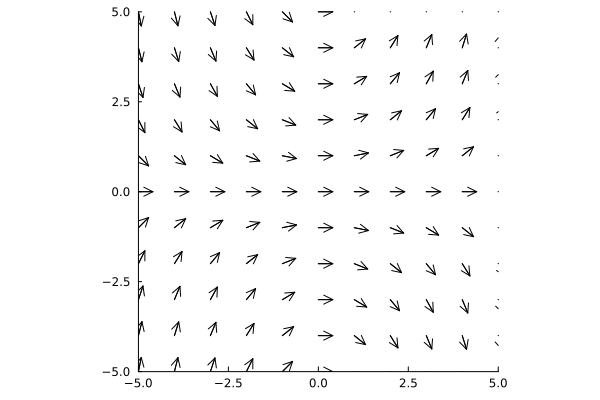
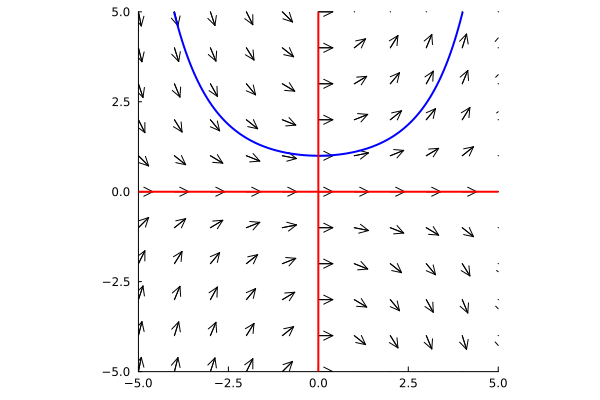
add explicacion de quiver

diff --git a/reportes/cap2_001.md b/reportes/cap2_001.md
@@ -106,27 +106,46 @@ Es posible que una ecuación diferencial no tenga
 soluciones y que una ecuación diferencial tenga una solución que con los
 métodos existentes actuales no se puede determinar. [@zill]
 
-En ocasiones es conveniente observar el campo direccional para generar una idea de la
-solucion. Por ejemplo, el siguiente codigo en *julia* es para visualizar el campo direccional para la ecuación 
-diferencial $dy/dx = 0.2xy$
+Por ejemplo, antes de buscar solución, considere la ecuacion diferencial: $f(x,y) = dy/dx = 0.2xy$.
+Vamos a dibujar su **campo direccional** 
+a fin de lograr una idea de como seria la solución de la ec. diferencial. Un campo direccional dibuja muchas flechas donde:
+
+* Cada flecha esta en un punto del plano y representa una pendiente
+
+Para dibujar el campo direccional, en cada punto del plano construimos un pequeño vector cuya inclinación coincide con la pendiente $f(x,y)$.
+
+Para construir un vector con esa pendiente, podemos pensar en un triángulo rectángulo: elegimos una base de longitud 1 y una altura igual a $f(x,y)$.
+
+
+\begin{figure}[H]
+\centering
+\includegraphics[height=0.25\textheight,trim=0cm 2cm 0cm 15cm,clip]{./img/vectorquiver00.pdf}
+\caption{Triangulo con altura y pendiente igual a la derivada}
+\label{fig:triangulo}
+\end{figure}
+
+El campo direccional no usa la derivada como cociente de incrementos, sino como una instrucción de inclinación.
+
+
+El siguiente codigo en *julia* es para visualizar el campo direccional para la ecuación 
+diferencial.
+
+\newpage
 
 ```julia
-
 using Plots
 
-# malla
+# puntos x,y:
 x = -5:1:5
 y = -5:1:5
 
 # crear grid
-
 X = [xi for yi in y, xi in x]
 Y = [yi for yi in y, xi in x]
 
-
 # campo direccional
-U = ones(size(X))      # dx = 1
-V = 0.2 .* X .* Y      # dy = f(x,y)
+U = ones(size(X))      # 1
+V = 0.2 .* X .* Y      # f(x,y)
 
 # normalizar (opcional, para que todas 
 # las flechas tengan tamaño similar)
@@ -137,7 +156,6 @@ V = V ./ L
 scale = 0.4
 U = scale .* U
 V = scale .* V
-
 
 # plot
 p = quiver(
@@ -152,13 +170,34 @@ p = quiver(
     legend=false,
     grid=false
 )
-
 savefig(p,"campo.png")
 ```
 \begin{figure}[h]
 \centering
 \includegraphics[height=0.5\textheight]{./img/campo.png}
-\caption{Campo direccional para $dy/dx = 0.2xy$}
+\caption{Campo direccional para $dy/dx = 0.2xy$, en azul: una solución particular}
 \end{figure}
+
+
+Le pedimos a Julia que construya la solución paso a paso usando métodos numéricos
+
+u[1] es y
+du[1] es dy/dx
+
+
+
+using DifferentialEquations
+
+function f!(du, u, p, x)
+    du[1] = 0.2 * x * u[1]
+end
+
+
+u0 = [1.0]        # y(0) = 1
+xspan = (0.0, 5.0)
+
+
+
+
 
 \newpage
